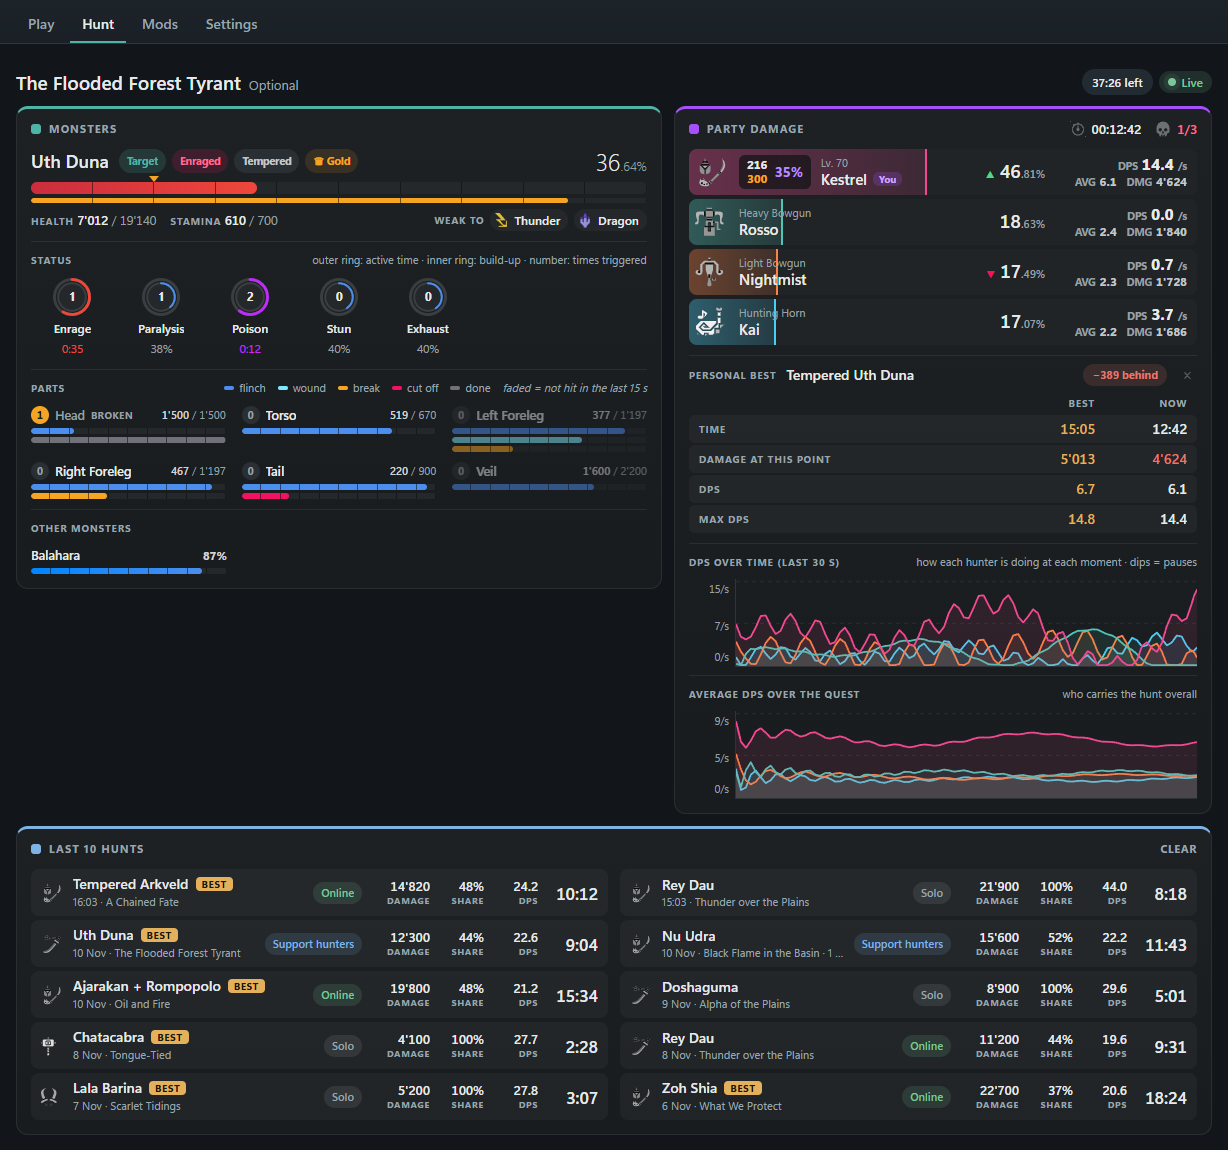
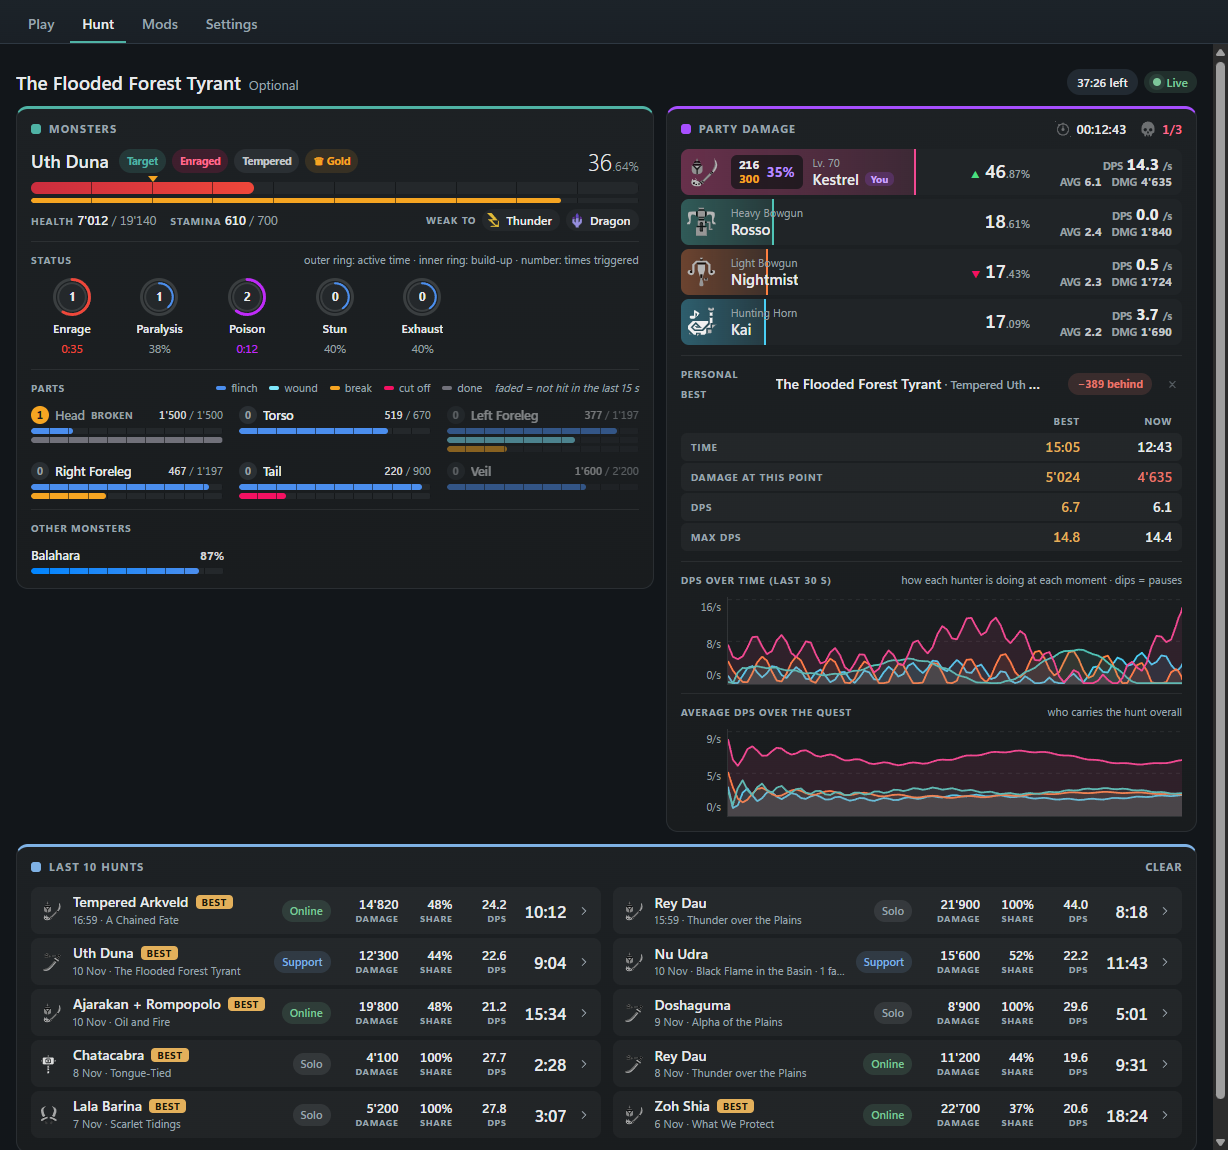
Showcase, feature list, install notes and questions on the front page

diff --git a/README.md b/README.md
@@ -1,39 +1,75 @@
 # Hunter AIO
 
-A small Windows app for **Monster Hunter Wilds** (Steam). It installs the mod loader and a hunt-data reader with one click, starts them together with the game, and shows the hunt in its own window instead of drawing over the game.
+A small Windows app for **Monster Hunter Wilds** (Steam). One click sets up the mod loader and the hunt-data reader, one button starts everything with the game, and the hunt shows in its own window instead of on top of the game.
 
-[Deutsch weiter unten](#deutsch)
+**[Download the latest version](https://github.com/MkUltra1984/hunter-aio/releases/latest)** · free · Windows 10/11 · [Deutsch](#deutsch)
 
-![Hunt tab](img/hunt.png)
+![The Hunt tab during a quest](img/hunt.png)
 
-## What it does
+## Showcase
 
-- **One-click setup**: finds the game, installs [REFramework](https://github.com/praydog/REFramework) and a build of [HunterPie](https://github.com/HunterPie/HunterPie), and removes everything again on request. Your saves are not touched.
-- **Hunt tab**: monster health, parts and status build-up, everyone's damage with DPS and charts, in a separate window (good for a second screen).
-- **Hunt history**: your last 10 successful hunts with full stats, and a personal best per monster that the running hunt is compared against.
-- **Save backups** before anything is installed, with restore.
-- **Updates itself**: the app checks this page when it starts and offers "Update now".
+### Follow the hunt live
 
-## Download
+Monster health, parts and status build-up on the left; everyone's damage, share and DPS on the right, with charts of the fight. It runs in its own window, so it fits a second screen and nothing covers the game.
 
-1. Get `HunterAIO-<version>.zip` from the [latest release](https://github.com/MkUltra1984/hunter-aio/releases/latest) (not the smaller zips; those are for the updater).
-2. Unzip it anywhere and start `HunterAIO.exe`. Windows SmartScreen may warn once because the exe is not signed: *More info* → *Run anyway*.
+### Race your personal best
+
+During a quest the app shows your best run of that quest next to the current one: best time, the damage you had at this exact minute back then, DPS and max DPS, and whether you are ahead or behind. Bests are kept per quest, because the same monster has different health in different quests.
+
+### Look back at your hunts
+
+Your last 10 successful hunts with time, damage, share and whether you went solo, with support hunters or online. Click one to open it: every party member's numbers and a chart of who dealt how much damage when.
+
+![An opened hunt in the history](img/history.png)
+
+### One button to play
+
+| Set up and play | Mods and overlay | Updates itself |
+|---|---|---|
+| ![Play tab](img/play.png) | ![Mods tab](img/mods.png) | ![Update card](img/update.png) |
+| **Install now** finds the game and sets everything up. After that, **Play** starts HunterPie and the game together. | Each mod has a switch. Choose whether the hunt info shows in the app or as HunterPie's overlay in the game. | The app checks this page when it starts. **Update now** downloads only what changed and restarts. |
+
+A short tour explains every tab on first start, and you can replay it under Settings → About.
+
+![First-start tour](img/tour.png)
+
+## Features
+
+- **One-click setup and removal** of [REFramework](https://github.com/praydog/REFramework) and a build of [HunterPie](https://github.com/HunterPie/HunterPie). Your saves are not touched.
+- **Hunt tab**: target monster with health, stamina, capture line, weaknesses, parts and ailments; other monsters; damage meter with DPS, average and charts.
+- **Personal bests per quest** with a live comparison during the hunt.
+- **Hunt history**: the last 10 successful hunts, each with full party stats and a damage-over-the-fight chart.
+- **Save backups** with restore, and a backup before anything is installed.
+- **In-app updates** and a desktop shortcut.
+
+## Install
+
+1. Download `HunterAIO-<version>.zip` from the [latest release](https://github.com/MkUltra1984/hunter-aio/releases/latest). The smaller zips there are for the in-app updater; you don't need them.
+2. Unzip it anywhere and start `HunterAIO.exe`.
 3. Press **Install now**, then **Play Monster Hunter Wilds**.
 
 HunterPie needs the [.NET Desktop Runtime 10.0 (x64)](https://dotnet.microsoft.com/download/dotnet/10.0).
 
-![Play tab](img/home.png)
+### Windows warning on first start
 
-## Good to know
+The exe is not signed, so Windows SmartScreen may show "Windows protected your PC" the first time. Choose *More info* → *Run anyway*. Signing costs money every year, which is why a free hobby tool comes without it. If your antivirus complains, check the file on [VirusTotal](https://www.virustotal.com/) and report a false alarm to the vendor.
 
-- Windows 10/11, Steam version of the game.
-- The app reads the game's memory through HunterPie to show hunt data. It changes nothing for other players. Use mods at your own risk and follow Capcom's rules.
-- The interface is English only for now.
+## Questions
+
+**Is this safe for my account?** The app reads the game's memory through HunterPie to show hunt data; it changes nothing for other players and nothing in your save. Mods are never officially supported, so you use them at your own risk. Follow Capcom's rules.
+
+**Where is my data?** Everything stays on your PC in `%LOCALAPPDATA%\HunterAIO` (settings, hunt history, save backups). The app only contacts GitHub, to look for updates.
+
+**How do I remove it?** Settings → Advanced → *Uninstall everything*, then delete the folder.
+
+**Which language?** The interface is English only for now.
+
+**Something is broken.** Open an [issue](https://github.com/MkUltra1984/hunter-aio/issues) and say what you did and what happened. Please don't report problems with the included HunterPie build to the HunterPie project.
 
 ## Credits and licences
 
 - **REFramework** by praydog, MIT licence, included unmodified.
-- **HunterPie** by Haato and contributors, Apache License 2.0. The included build is **modified**: it has one extra read-only service that writes the hunt data to a local file for this app. It is not an official HunterPie release; please don't report problems with it to the HunterPie project.
+- **HunterPie** by Haato and contributors, Apache License 2.0. The included build is **modified**: one extra read-only service writes the hunt data to a local file for this app. It is not an official HunterPie release. The Hunt tab follows HunterPie's widget design and uses its icons.
 - Details and licence texts: [licenses/](licenses/).
 
 Hunter AIO itself is by MkUltra1984 and free to use. Not affiliated with Capcom. Monster Hunter Wilds is a Capcom game.
@@ -42,34 +78,40 @@ Hunter AIO itself is by MkUltra1984 and free to use. Not affiliated with Capcom.
 
 ## Deutsch
 
-Eine kleine Windows-App für **Monster Hunter Wilds** (Steam). Sie installiert den Mod-Loader und ein Programm zum Auslesen der Jagddaten mit einem Klick, startet beides zusammen mit dem Spiel und zeigt die Jagd in einem eigenen Fenster, statt etwas über das Spiel zu legen.
+Eine kleine Windows-App für **Monster Hunter Wilds** (Steam). Ein Klick richtet den Mod-Loader und das Auslesen der Jagddaten ein, ein Knopf startet alles zusammen mit dem Spiel, und die Jagd erscheint in einem eigenen Fenster statt über dem Spiel.
 
-### Was sie kann
+**[Neueste Version herunterladen](https://github.com/MkUltra1984/hunter-aio/releases/latest)** · kostenlos · Windows 10/11
 
-- **Einrichtung mit einem Klick**: findet das Spiel, installiert [REFramework](https://github.com/praydog/REFramework) und einen Build von [HunterPie](https://github.com/HunterPie/HunterPie) und entfernt auf Wunsch alles wieder. Deine Spielstände bleiben unberührt.
-- **Reiter „Hunt“**: Lebenspunkte, Körperteile und Statusaufbau der Monster, der Schaden aller Jäger mit DPS und Diagrammen, in einem eigenen Fenster (praktisch für einen zweiten Bildschirm).
-- **Jagdverlauf**: deine letzten 10 erfolgreichen Jagden mit allen Werten und eine persönliche Bestzeit pro Monster, mit der die laufende Jagd verglichen wird.
-- **Sicherung der Spielstände** vor jeder Installation, mit Wiederherstellung.
-- **Aktualisiert sich selbst**: Die App schaut beim Start auf dieser Seite nach und bietet „Update now“ an.
+### Was die App zeigt
 
-### Download
+- **Die Jagd live**: links Lebenspunkte, Körperteile und Statusaufbau des Monsters, rechts Schaden, Anteil und DPS aller Jäger mit Diagrammen. Eigenes Fenster, ideal für einen zweiten Bildschirm; nichts verdeckt das Spiel.
+- **Gegen die eigene Bestzeit**: Während einer Quest siehst du deinen besten Lauf dieser Quest neben dem aktuellen: Bestzeit, dein Schaden zur selben Minute, DPS und Max-DPS, dazu ob du vorne oder hinten liegst. Bestzeiten gelten pro Quest, weil dasselbe Monster je nach Quest unterschiedlich viele Lebenspunkte hat.
+- **Jagdverlauf**: die letzten 10 erfolgreichen Jagden mit Zeit, Schaden, Anteil und ob solo, mit Hilfsjägern oder online. Ein Klick öffnet die Jagd mit den Werten aller Jäger und einem Diagramm, wer wann wie viel Schaden gemacht hat.
+- **Ein Knopf zum Spielen**: „Install now“ findet das Spiel und richtet alles ein, danach startet „Play“ HunterPie und das Spiel gemeinsam.
+- **Aktualisiert sich selbst**: Die App schaut beim Start hier nach; „Update now“ lädt nur, was sich geändert hat.
+- **Sicherung der Spielstände** mit Wiederherstellung, Desktop-Verknüpfung, kurze Tour beim ersten Start.
 
-1. `HunterAIO-<Version>.zip` aus dem [neuesten Release](https://github.com/MkUltra1984/hunter-aio/releases/latest) laden (nicht die kleineren Zips, die sind für die Update-Funktion).
-2. Irgendwo entpacken und `HunterAIO.exe` starten. Windows SmartScreen warnt eventuell einmal, weil die exe nicht signiert ist: *Weitere Informationen* → *Trotzdem ausführen*.
+### Installation
+
+1. `HunterAIO-<Version>.zip` aus dem [neuesten Release](https://github.com/MkUltra1984/hunter-aio/releases/latest) laden. Die kleineren Zips dort sind für die Update-Funktion; die brauchst du nicht.
+2. Irgendwo entpacken und `HunterAIO.exe` starten.
 3. **Install now** drücken, danach **Play Monster Hunter Wilds**.
 
 HunterPie braucht die [.NET Desktop Runtime 10.0 (x64)](https://dotnet.microsoft.com/download/dotnet/10.0).
 
-### Gut zu wissen
+**Windows-Warnung beim ersten Start:** Die exe ist nicht signiert, deshalb zeigt Windows SmartScreen eventuell „Der Computer wurde durch Windows geschützt“. *Weitere Informationen* → *Trotzdem ausführen*. Eine Signatur kostet jedes Jahr Geld; darum kommt ein kostenloses Hobby-Werkzeug ohne sie aus.
 
-- Windows 10/11, Steam-Version des Spiels.
-- Die App liest über HunterPie den Speicher des Spiels aus, um die Jagddaten zu zeigen. Für andere Spieler ändert sie nichts. Mods nutzt du auf eigenes Risiko; halte dich an die Regeln von Capcom.
-- Die Oberfläche ist zurzeit nur auf Englisch.
+### Fragen
+
+- **Ist das sicher für meinen Account?** Die App liest über HunterPie den Speicher des Spiels aus, um die Jagddaten zu zeigen. Für andere Spieler und an deinem Spielstand ändert sie nichts. Mods werden nie offiziell unterstützt; du nutzt sie auf eigenes Risiko. Halte dich an die Regeln von Capcom.
+- **Wo liegen meine Daten?** Alles bleibt auf deinem PC unter `%LOCALAPPDATA%\HunterAIO`. Die App kontaktiert nur GitHub, um nach Updates zu schauen.
+- **Wie entferne ich sie?** Settings → Advanced → *Uninstall everything*, danach den Ordner löschen.
+- **Sprache?** Die Oberfläche ist zurzeit nur auf Englisch.
 
 ### Credits und Lizenzen
 
 - **REFramework** von praydog, MIT-Lizenz, unverändert enthalten.
-- **HunterPie** von Haato und Mitwirkenden, Apache License 2.0. Der enthaltene Build ist **angepasst**: Er hat einen zusätzlichen, nur lesenden Dienst, der die Jagddaten für diese App in eine lokale Datei schreibt. Es ist kein offizielles HunterPie-Release; bitte melde Probleme damit nicht beim HunterPie-Projekt.
+- **HunterPie** von Haato und Mitwirkenden, Apache License 2.0. Der enthaltene Build ist **angepasst**: Ein zusätzlicher, nur lesender Dienst schreibt die Jagddaten für diese App in eine lokale Datei. Es ist kein offizielles HunterPie-Release; bitte melde Probleme damit nicht beim HunterPie-Projekt.
 - Details und Lizenztexte: [licenses/](licenses/).
 
 Hunter AIO selbst ist von MkUltra1984 und kostenlos nutzbar. Keine Verbindung zu Capcom. Monster Hunter Wilds ist ein Spiel von Capcom.
